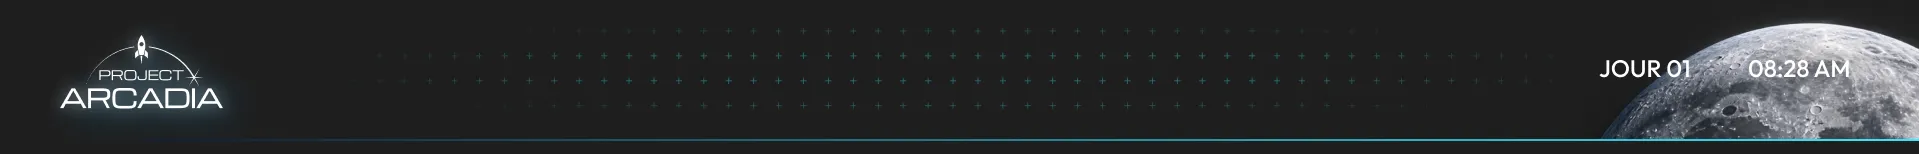
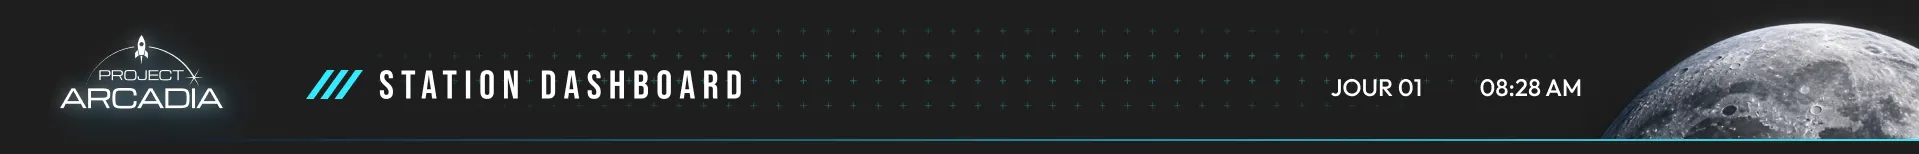
docs: sync figma export
- header band now carries the screen title (prop « titre »), the dash and
  the day / time labels; the dashboard uses it
- progress bar narrowed to 637 and moved under the header
- new blue status icon set (calque_1 79:782): temperature, sunrise,
  radiation, sun, earth link, crater
- layer count 1066

diff --git a/docs/figma/README.md b/docs/figma/README.md
@@ -2,7 +2,7 @@
 
 Snapshot of the Figma file **PROJECT-ARCADIA**, taken on 2026-11-15, so that the team can read the mock-ups without Figma access.
 
-- Source: https://www.figma.com/design/73mhzljKb1i3CP1xLLsnA9/PROJECT-ARCADIA (« Page 1 », 990 layers, exported here; a second page « Component » holds the planet pictures and Icon-direction).
+- Source: https://www.figma.com/design/73mhzljKb1i3CP1xLLsnA9/PROJECT-ARCADIA (« Page 1 », 1066 layers, exported here; a second page « Component » holds the planet pictures and Icon-direction).
 - The Figma file stays the source of truth: the `chore/figma-sync` branch refreshes this folder from it.
 - Node ids (`13:547`…) are Figma ids: append `?node-id=13-547` to the file URL to open a layer.
 
@@ -33,7 +33,7 @@ Snapshot of the Figma file **PROJECT-ARCADIA**, taken on 2026-11-15, so that the
 | `15-act-select-v3.webp` | Ecran - selection acte `63:1463` | Same screen with the Moon card selected (cyan filter), the Moon in the header and background, START MISSION in its hover state. |
 | `12-frame-12-wip.png` | Frame 12 `21:1074` | Screen started from the « Information » reference (small logotype, grey placeholder panel). |
 | `13-terminal-a.webp` | Ecran ordi `48:289` | Lunar module control terminal picture, alone (the rover picture, cyan dots and zoomed frame were removed). Not implemented yet. |
-| `16-dashboard.webp` | Ecran - Dashboard `79:700` | **New** station dashboard draft: dark blue gradient, two soft violet glows, the mascot robot on the left, the « Ecran - Bandeau » header on top, « /// STATION DASHBOARD » title, « JOUR 01 » / « 08:28 AM » labels and the « Main Mission Progress » bar. Content panels not drawn yet. |
+| `16-dashboard.webp` | Ecran - Dashboard `79:700` | **New** station dashboard draft: dark blue gradient, two soft violet glows, the mascot robot on the left, the « Ecran - Bandeau » header on top (title « station dashboard ») and the « Main Mission Progress » bar under it. Content panels not drawn yet. |
 
 ## Components
 
@@ -52,10 +52,11 @@ Snapshot of the Figma file **PROJECT-ARCADIA**, taken on 2026-11-15, so that the
 | `planet-header.webp` | Planet `63:886` (page « Component ») | Planet picture of the screen header: Earth, Moon, Mars (the Moon and Mars variants still show the Earth picture). Planet pictures are components Earth `63:903`, Moon `63:904`, Mars `63:905`. |
 | `status-card.png` | Card `13:416` | Props: Valeur, Type, icon (grey placeholder `Icons neutre`). |
 | `icon-chevrons.png` | Icons - chevrons - start `43:273` | Double cyan chevron. |
-| `header-band.webp` | Ecran - Bandeau `79:707` | **New** header component (1919 × 140): logotype, cyan stripes, dotted band, « JOUR 01 » and « 08:28 AM » Info HUD labels, Moon picture on the right, bottom line. Used by the dashboard. |
+| `header-band.webp` | Ecran - Bandeau `79:707` | **New** header component (1919 × 140): logotype, « /// » dash and screen title (prop Titre), « JOUR 01 » and « 08:28 AM » Info HUD labels, Moon picture on the right, bottom line. Used by the dashboard. |
+| `status-icons.png` | Calque_1 `79:782` (frame of vectors) | **New** icon set, blue `#68a8de`: thermometer on the ground, sunrise over the Moon, radiation, Sun, Earth with a dish antenna, crater. Likely for the status cards. |
 | `info-hud.png` | Info HUD `75:652` | HUD label (112 × 50): white Outfit Medium text, no background, 10 px padding. Prop: Texte (« JOUR 01 », « 08:28 AM » on the instances `75:653`, `75:655`). |
 | `icon-direction.png` | Icon-direction `63:1923` | Small red-orange arrow (`#f24822`), placed on a grey circle `63:1920` (compass draft). Also on the « Component » page `63:1931`. |
-| `progress-bar.png` | Frame 26 `63:1911` (frame inside the dashboard, not a component) | « Main Mission Progress » bar: label and « 10% », fill `#35e9fd` on track `#212f56`. Smaller French copy Frame 25 `63:1910` (« Avancée de la mission principale », `#41acf5` on `#0e1934`). |
+| `progress-bar.png` | Frame 26 `63:1911` (frame inside the dashboard, not a component) | « Main Mission Progress » bar (637 wide): label and « 10% », fill `#35e9fd` on track `#22315a`. Smaller French copy Frame 25 `63:1910` (« Avancée de la mission principale », `#41acf5` on `#0e1934`). |
 | `dash.png` | dash `79:755` | Three slanted cyan stripes (`#35e9fd`), the « /// » mark before screen titles. |
 
 ## Design tokens (Figma variables)
